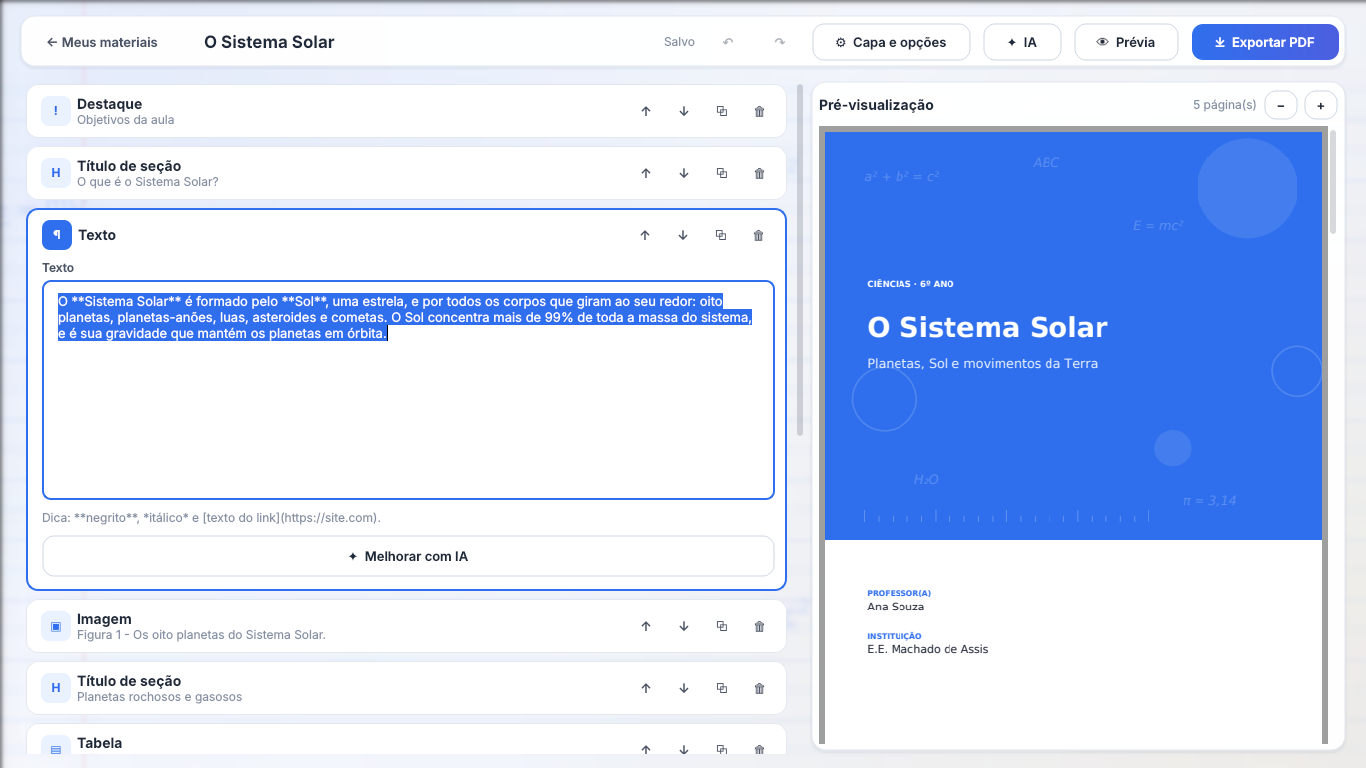
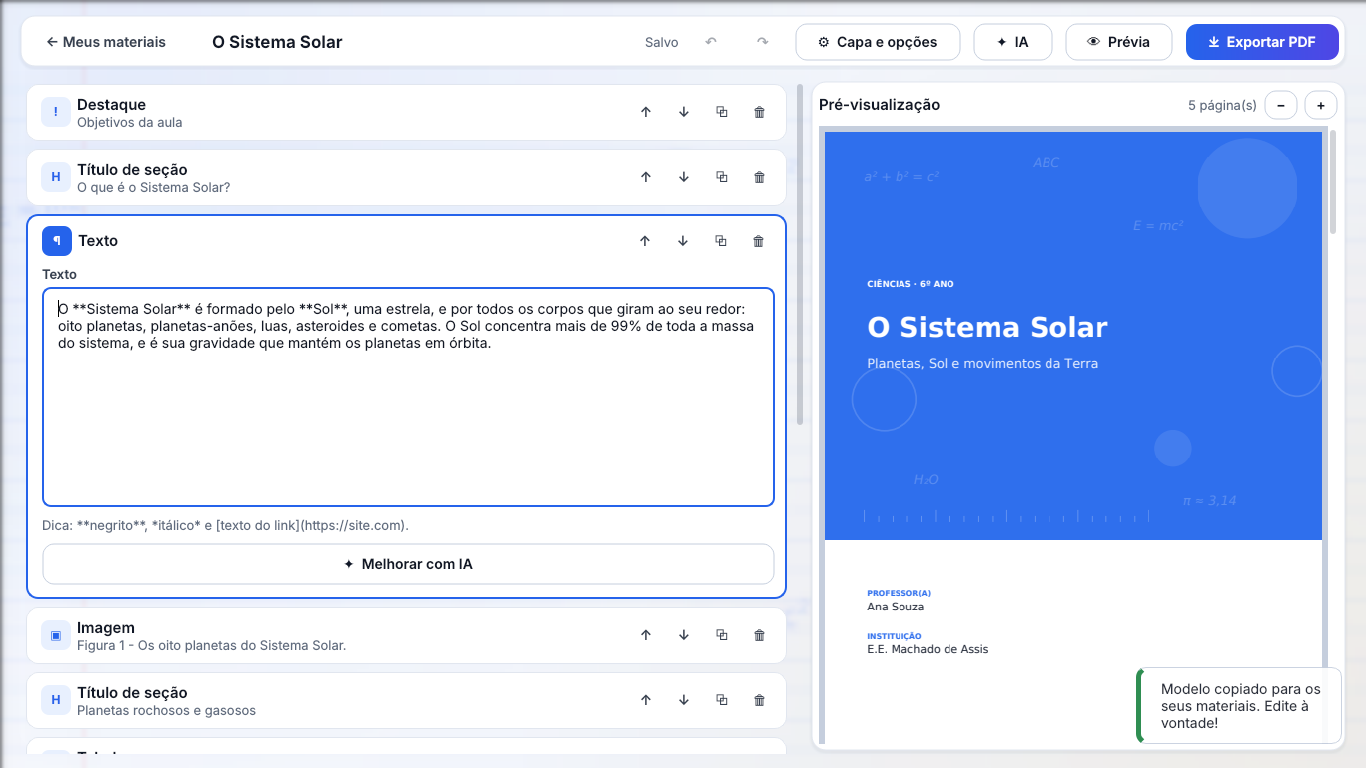
chore: versão 2.1.0, testes de tema, capturas e documentação
Claude-Session: https://claude.ai/code/session_01RTRBjpSZP1yTkXzpVPjrZ6

diff --git a/tests/test_ui_smoke.py b/tests/test_ui_smoke.py
@@ -91,6 +91,10 @@ def test_full_flow(tmp_path, monkeypatch):
     for x in w.findChildren(Modal):
         x.close_modal()
     _wait(300)
+    # troca de tema na hora, mantendo a sessão
+    w.apply_theme("dark")
+    assert w.user is not None and w.shell is not None
+    w.apply_theme("light")
     w.do_logout("teste")
     assert w.user is None and w.stack.currentWidget() is w.login
     db.close()

diff --git a/aulaviva/__init__.py b/aulaviva/__init__.py
@@ -1,6 +1,6 @@
 """AulaViva Studio - criador de apostilas e PDFs interativos para professores."""
 
-__version__ = "2.0.0"
+__version__ = "2.1.0"
 APP_NAME = "AulaViva Studio"
 APP_ID = "aulaviva-studio"
 ORG_NAME = "AulaViva"

diff --git a/README.md b/README.md
@@ -4,7 +4,9 @@ Aplicativo para **Windows e Linux** que ajuda professores a criar **apostilas, l
 roteiros de aula em PDF interativo**, com QR codes, links, vídeos, documentos Word, exercícios respondíveis no
 próprio PDF e um **assistente de IA** (com opções gratuitas).
 
-![Tela inicial](docs/screenshots/inicio.png)
+| Claro | Escuro |
+|---|---|
+| ![Tela inicial](docs/screenshots/inicio.png) | ![Modo escuro](docs/screenshots/inicio-escuro.png) |
 
 ## Principais recursos
 
@@ -16,6 +18,7 @@ próprio PDF e um **assistente de IA** (com opções gratuitas).
 | **Modelos prontos** | Materiais reais por disciplina (Ciências, Matemática, Português, História, Geografia, Inglês), com ilustrações e prévia da página. |
 | **QR code e links** | Gerador de QR code (PNG/SVG, cores, logo da escola, Wi-Fi) e de links (WhatsApp, e-mail, YouTube no minuto certo, Drive, cópia do Google Docs, Maps, limpeza de rastreadores). |
 | **PDF interativo** | Capa, sumário clicável, QR codes e botões clicáveis, campos de resposta, anexos Office, gabarito, proteção AES-256. Exporta as versões **aluno** e **professor** de uma vez. |
+| **Claro ou escuro** | Tema claro (papel/caderno) ou escuro (lousa), com a fonte Inter, nítida em qualquer tela. |
 | **Segurança** | Argon2id, dados pessoais criptografados (AES-256-GCM), cofre do sistema para chaves, bloqueio por inatividade, LGPD (exportar/excluir dados). |
 
 <table>
@@ -86,6 +89,9 @@ tests/    testes automatizados
 packaging/ PyInstaller, Inno Setup, scripts de build, atalho Linux
 docs/     SECURITY.md · OAUTH.md · capturas de tela · PDFs de exemplo
 ```
+
+Login com Google: crie os segredos `GOOGLE_CLIENT_ID` e `GOOGLE_CLIENT_SECRET` em *Settings > Secrets and variables >
+Actions* para que os instaladores gerados pelo GitHub já venham com o botão funcionando (detalhes em docs/OAUTH.md).
 
 Segurança: [docs/SECURITY.md](docs/SECURITY.md) · Login com Google/Microsoft/gov.br: [docs/OAUTH.md](docs/OAUTH.md) ·
 Histórico de versões: [CHANGELOG.md](CHANGELOG.md)

diff --git a/CHANGELOG.md b/CHANGELOG.md
@@ -1,5 +1,12 @@
 # Histórico de versões
 
+## 2.1.0
+- Nova fonte de interface **Inter** (embutida, licença OFL) e textos com mais contraste e tamanhos maiores.
+- **Modo escuro** (Claro / Escuro / Automático) em *Configurações > Preferências*, aplicado na hora sem sair da conta.
+- **Login com Google** funcionando: botão no padrão oficial, retorno em `http://127.0.0.1:<porta>/` e credenciais
+  fora do Git (arquivo local ignorado ou segredos `GOOGLE_CLIENT_ID`/`GOOGLE_CLIENT_SECRET` no GitHub Actions).
+- Miniaturas dos modelos com fundo de papel correto no modo escuro.
+
 ## 2.0.0
 - Novo visual claro, inspirado em papel e caderno, mais limpo e legível.
 - **Criar com IA** qualquer tipo de material (apostila, lista, prova, roteiro) e editar depois.
